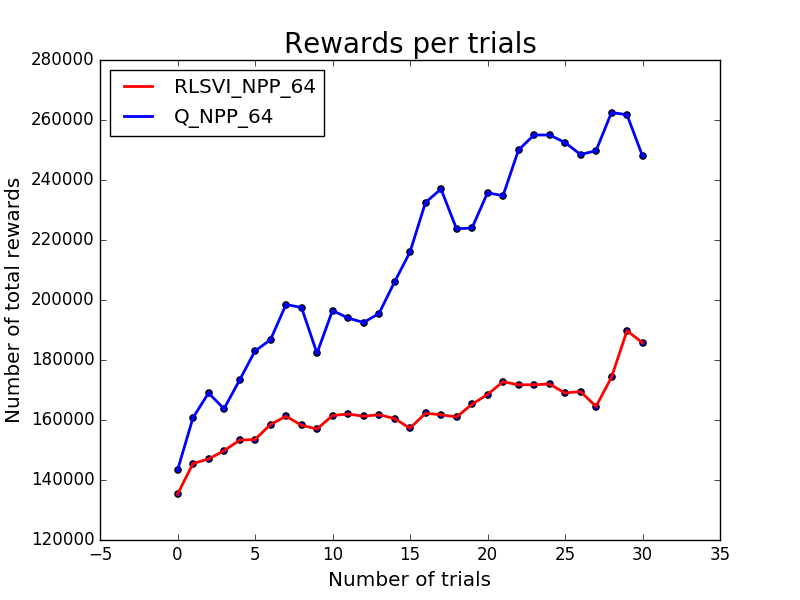
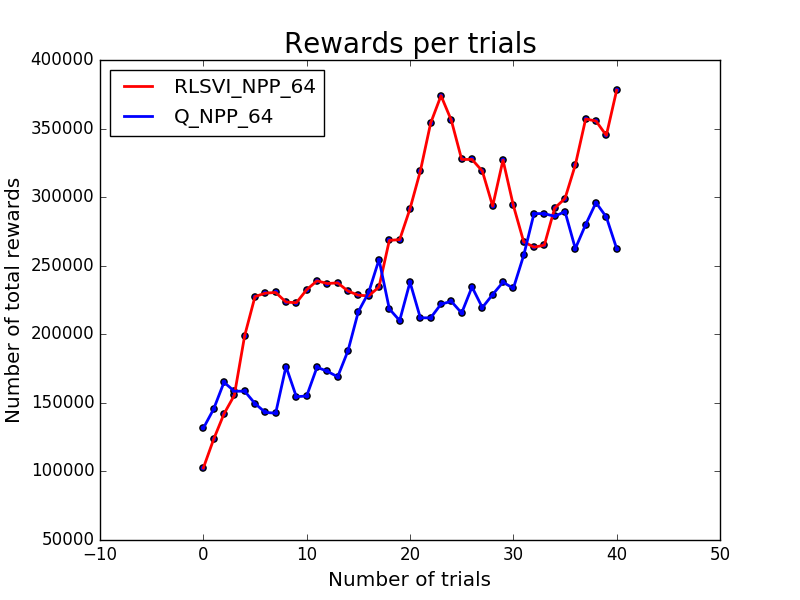
Cool RLSVI Results

diff --git a/src/evaluation.py b/src/evaluation.py
@@ -201,7 +201,7 @@ if __name__ == '__main__':
     # evaluator(QLearningAlgorithm,agent.NPPFeatureExtractor,'Q','NPP',multiple = 1.0,numTrials=50, epsilon = 0.3, sigma = 500)
     # evaluator(QLearningAlgorithm,agent.NPPOFeatureExtractor,'Q','NPPO',multiple = 1.0,numTrials=50, epsilon = 0.3, sigma = 500)
     # evaluator(QLearningAlgorithm,agent.NPPSFeatureExtractor,'Q','NPPS',multiple = 1.0,numTrials=50, epsilon = 0.3, sigma = 500)
-    evaluator(DRLSVI,agent.NPPFeatureExtractor,'DRLSVI','NPP',multiple = 1.0,numTrials=50, epsilon = 0.0, sigma = 500)
+    # evaluator(DRLSVI,agent.NPPFeatureExtractor,'DRLSVI','NPP',multiple = 1.0,numTrials=50, epsilon = 0.0, sigma = 500)
     # evaluator(RLSVI,agent.NPPFeatureExtractor,'LSVI','NPP',multiple = 1.0,numTrials=50, epsilon = 0.3, sigma = 500)
     # evaluator(QLearningAlgorithm,agent.NPPFeatureExtractor,'Q','NPP',multiple = 2.0,numTrials=50, epsilon = 0.3, sigma = 500)
     # evaluator(RLSVI,agent.NPPFeatureExtractor,'RLSVI','NPP',multiple = 2.0,numTrials=50, epsilon = 0.0, sigma = 500)
@@ -234,22 +234,22 @@ if __name__ == '__main__':
     plt.title('Rewards per trials', fontsize=20)
     plt.savefig('../plots/totalReward.png')
 
-    totalRewards = {'Q_NPP_64': pickle.load(open('../results/totalRewards_Q_NPP_64.0','rb')), \
-                    'RLSVI_NPP_64': pickle.load(open('../results/totalRewards_RLSVI_NPP_64.0','rb'))}
+    totalRewards = {'Q Learning': pickle.load(open('../results/totalRewards_Q_NPP_64.0','rb')), \
+                    'RLSVI': pickle.load(open('../results/totalRewards_DRLSVI_NPP_64.0','rb'))}
     colors = ['red','blue','green','black']
 
     plt.figure()
     for i , name in enumerate(totalRewards.keys()):
-        rewards = movingAverage(totalRewards[name],window=20)
+        rewards = [x/10000.0 for x in movingAverage(totalRewards[name],window=10)]
         trials = range(len(rewards))
         plt.plot(trials,rewards,lw=2,color=colors[i], label = name)
         plt.scatter(trials,rewards)
 
     plt.legend(loc='upper left')
-    plt.xlabel('Number of trials',fontsize='large')
-    plt.ylabel('Number of total rewards',fontsize='large')
-    plt.title('Rewards per trials', fontsize=20)
-    plt.savefig('../plots/totalReward2.png')
+    plt.xlabel('Number of episodes',fontsize='large')
+    plt.ylabel('Average reward',fontsize='large')
+    plt.title('Average rewards for NPP features', fontsize=20)
+    plt.savefig('../plots/RLSVIAverageReward.png')
 
 # ############################################# Evaluation of Level 5
 #     ab = AngryBirdsMDP(level = 5)
